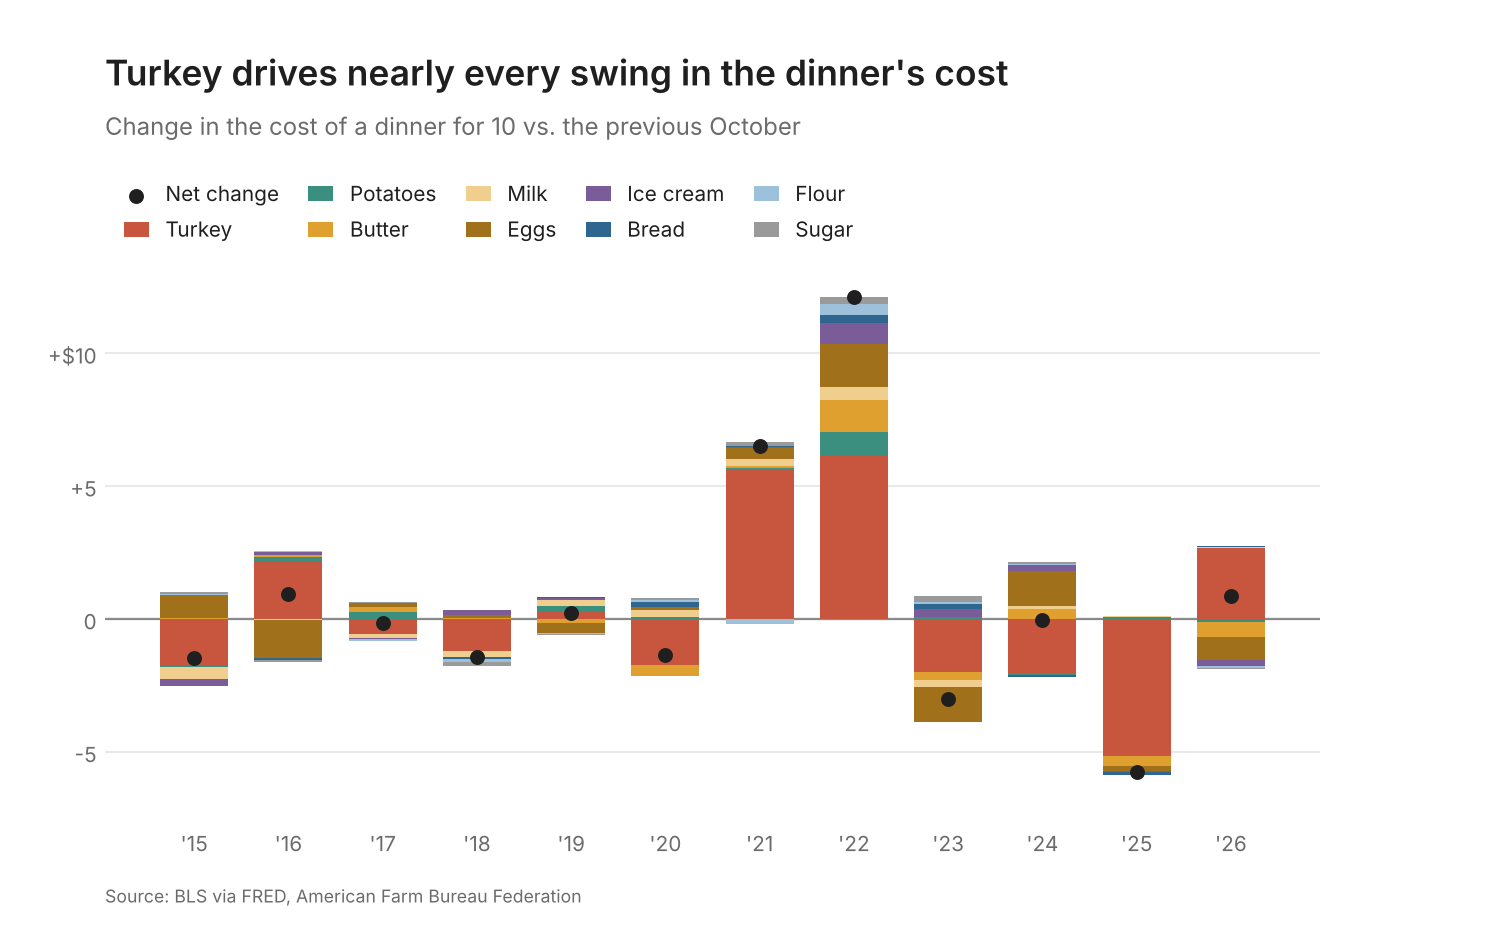
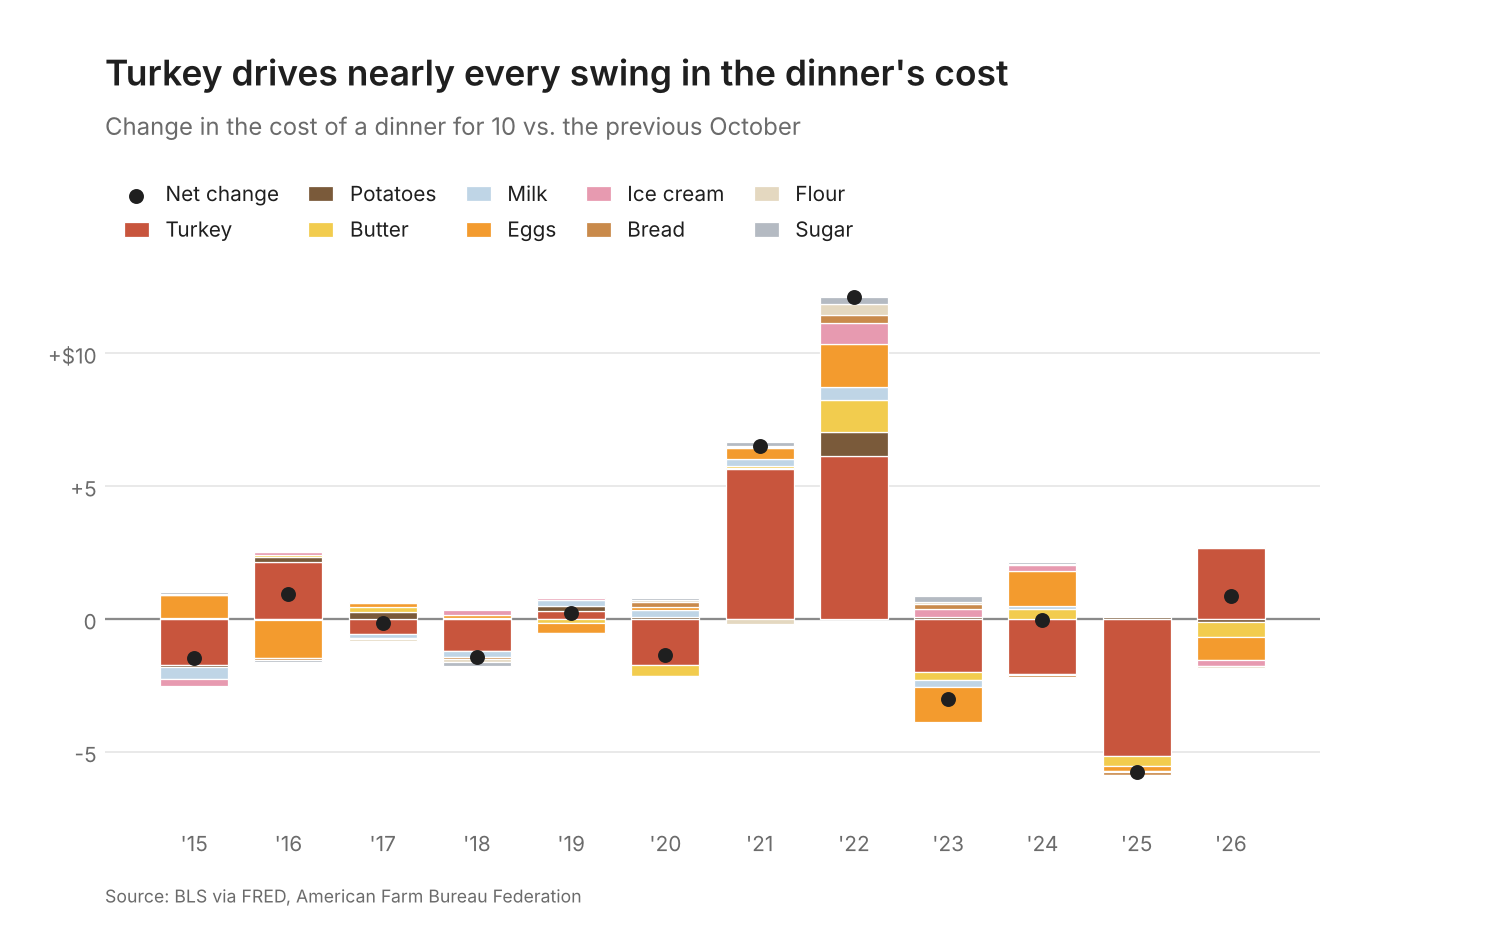
Color each dinner item to suggest the food itself
Claude-Session: https://claude.ai/code/session_015UrztArHpAPPRd1ooHHwA1

diff --git a/build_index.py b/build_index.py
@@ -189,22 +189,23 @@ cs.finish(fig, "Since 2019, the dinner's price rose less than prices overall",
 
 # 3. YoY contributions, recent years, grouped into four categories
 recent = contrib.loc[2015:]
-# All nine items; related foods share a hue family (dairy = golds, baking = blues)
+# All nine items, each colored to suggest the food itself (turkey keeps the accent red)
 groups = {"Turkey": (["Turkey"], cs.RED),
-          "Potatoes": (["Potatoes"], cs.GREEN),
-          "Butter": (["Butter"], cs.GOLD),
-          "Milk": (["Milk"], cs.LIGHT_GOLD),
-          "Eggs": (["Eggs"], cs.DARK_GOLD),
-          "Ice cream": (["Ice cream (pie)"], cs.PURPLE),
-          "Bread": (["Bread (stuffing)"], cs.BLUE),
-          "Flour": (["Flour (rolls, crust)"], cs.LIGHT_BLUE),
-          "Sugar": (["Sugar"], cs.GRAY)}
+          "Potatoes": (["Potatoes"], "#7A5A3A"),      # russet skin
+          "Butter": (["Butter"], "#F2CC4E"),          # butter yellow
+          "Milk": (["Milk"], "#BFD5E6"),              # milk-carton blue
+          "Eggs": (["Eggs"], "#F39B2E"),              # yolk orange
+          "Ice cream": (["Ice cream (pie)"], "#E79AB0"),  # strawberry
+          "Bread": (["Bread (stuffing)"], "#C98A4B"), # golden crust
+          "Flour": (["Flour (rolls, crust)"], "#E4D8C0"), # off-white flour
+          "Sugar": (["Sugar"], "#B4BAC2")}            # granulated, cool gray
 fig, ax = cs.figure()
 fig.subplots_adjust(top=0.72)
 pos = np.zeros(len(recent)); neg = np.zeros(len(recent))
 for name, (cols, c) in groups.items():
     v = recent[cols].sum(axis=1).values
-    ax.bar(recent.index, v, bottom=np.where(v >= 0, pos, neg), color=c, width=0.72, label=name, zorder=3)
+    ax.bar(recent.index, v, bottom=np.where(v >= 0, pos, neg), color=c, width=0.72, label=name, zorder=3,
+           edgecolor="white", linewidth=0.6)
     pos += np.where(v >= 0, v, 0); neg += np.where(v < 0, v, 0)
 ax.scatter(recent.index, recent.sum(axis=1), color=cs.TEXT, s=38, zorder=4, label="Net change")
 cs.baseline(ax, 0)
